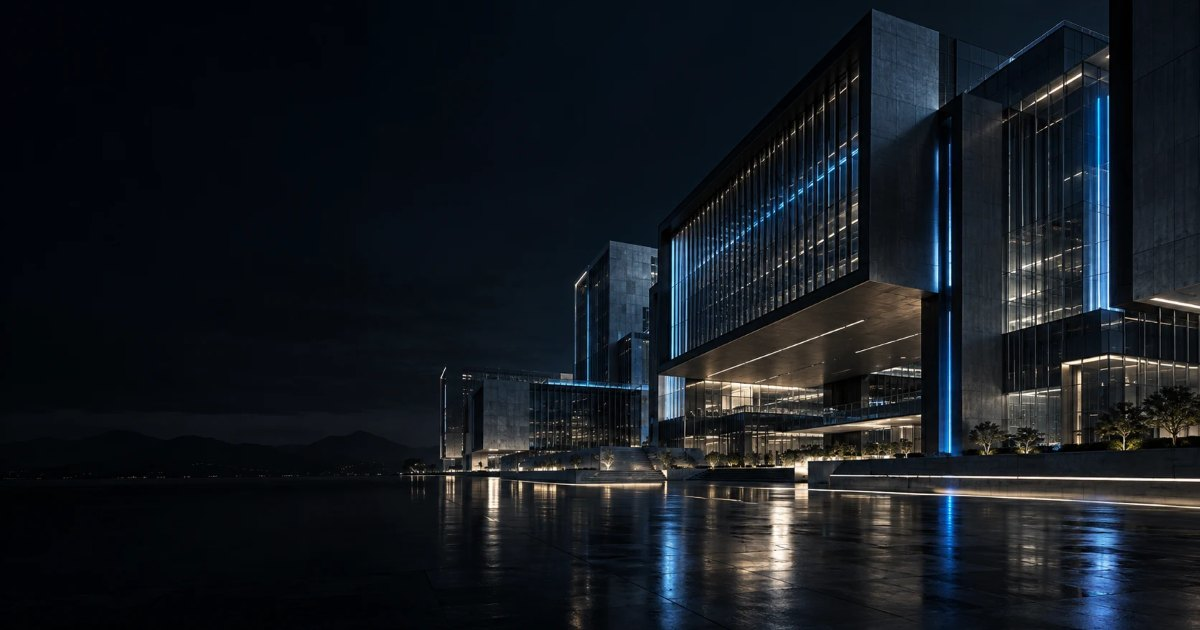
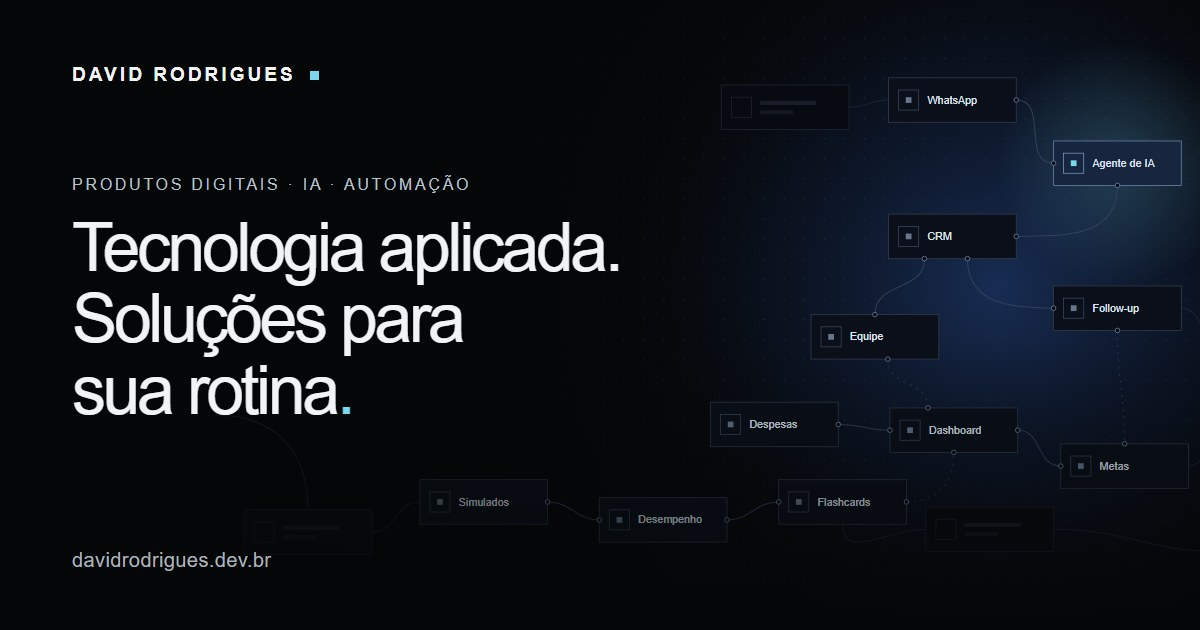
Atualiza imagem de compartilhamento e README para o novo hero
- og-image.jpg (1200x630) passa a usar a arte de fluxos do hero, com
  marca, título e domínio, no lugar do recorte da foto do prédio
- README descreve a arte em SVG inline e marca hero.webp como não usada

diff --git a/README.md b/README.md
@@ -37,11 +37,11 @@ O repositório está conectado à Vercel (projeto `portfolio-david`). Cada push 
 
 ## Estrutura
 
-- `index.html` — conteúdo da página, metadados de SEO e dados estruturados (Person e WebSite)
-- `style.css` — estilos
+- `index.html` — conteúdo da página, metadados de SEO, dados estruturados (Person e WebSite) e a arte do hero em SVG inline (fluxos de automação)
+- `style.css` — estilos, incluindo a animação dos pulsos da arte
 - `script.js` — menu mobile e animações de entrada
-- `hero.webp` — imagem principal
-- `og-image.jpg` — imagem de compartilhamento (1200×630), derivada de `hero.webp`
+- `og-image.jpg` — imagem de compartilhamento (1200×630) com a mesma arte do hero
+- `hero.webp` — foto usada no hero anterior; não é mais referenciada pela página
 - `robots.txt` e `sitemap.xml` — rastreamento e indexação
 - `vercel.json` — configuração de hospedagem
 - `README.md` — documentação do projeto
